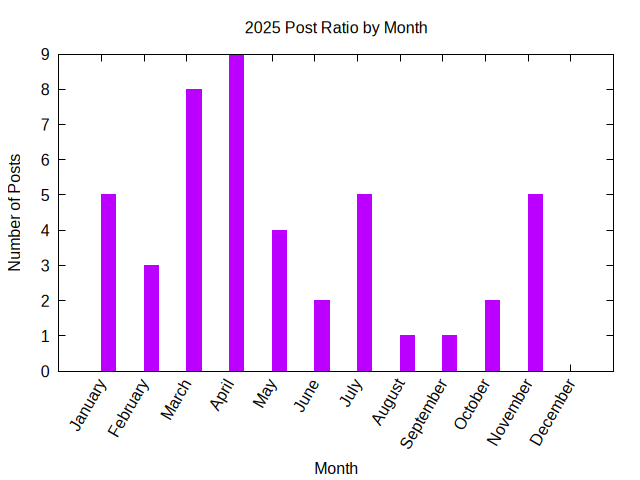
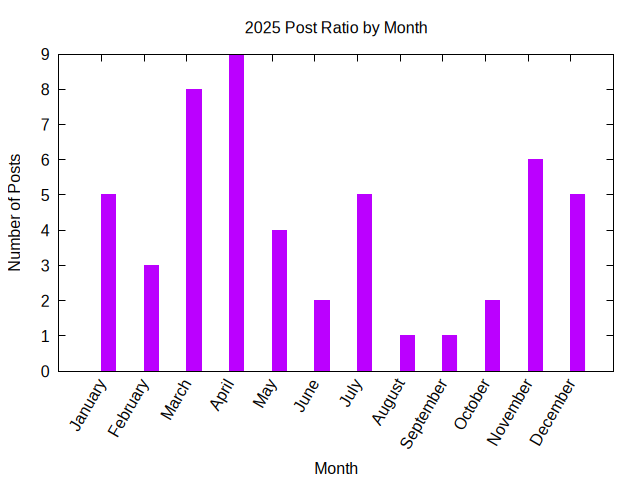
Stats update

Changed region(s): [[0.875, 0.4062, 0.9375, 0.7812], [0.8125, 0.3125, 0.875, 0.4062]]

diff --git a/_includes/stats/2025.md b/_includes/stats/2025.md
@@ -1,32 +1,36 @@
 <a name="2025" />
 ## 2025 (work in progress)
 
-**45 total posts** have been written on 2025.
-There have been *22 different tags* used, the most
+**51 total posts** have been written on 2025.
+There have been *26 different tags* used, the most
 popular being (sorted by number of posts):
  
-- *perl* (30 posts)  
-- *python* (27 posts)  
-- *raku* (27 posts)  
-- *perlweeklychallenge* (27 posts)  
-- *java* (27 posts)  
-- *postgresql* (7 posts)  
+- *perl* (33 posts)  
+- *raku* (30 posts)  
+- *python* (30 posts)  
+- *java* (30 posts)  
+- *perlweeklychallenge* (30 posts)  
 - *planet-postgresql-org* (7 posts)  
+- *postgresql* (7 posts)  
+- *freebsd* (4 posts)  
+- *linux* (3 posts)  
+- *oracle* (2 posts)  
 - *pgenv* (2 posts)  
 - *sqitch* (2 posts)  
-- *freebsd* (2 posts)  
-- *oracle* (2 posts)  
+- *bash* (1 posts)  
+- *travels* (1 posts)  
+- *gnome* (1 posts)  
 - *ntfs* (1 posts)  
-- *linux* (1 posts)  
-- *openday* (1 posts)  
 - *pgtraining* (1 posts)  
 - *veracrypt* (1 posts)  
-- *kde* (1 posts)  
-- *mojolicious* (1 posts)  
-- *emacs* (1 posts)  
-- *latex* (1 posts)  
+- *openday* (1 posts)  
 - *pgagroal* (1 posts)  
-- *gnome* (1 posts).<br/>
+- *latex* (1 posts)  
+- *mojolicious* (1 posts)  
+- *kde* (1 posts)  
+- *emacs* (1 posts)  
+- *linuxday* (1 posts)  
+- *zfs* (1 posts).<br/>
 <br/>
 The following is the overall 2025 post ratio by month:
 <br/>
@@ -45,7 +49,7 @@ The following is the overall 2025 post ratio by tag (showing max 30 tags):
 
 <div align="right">
 <small>
-Last generated on 2025-11-20 at 14:23
+Last generated on 2025-12-18 at 17:39
 </small>
 </div>
 
